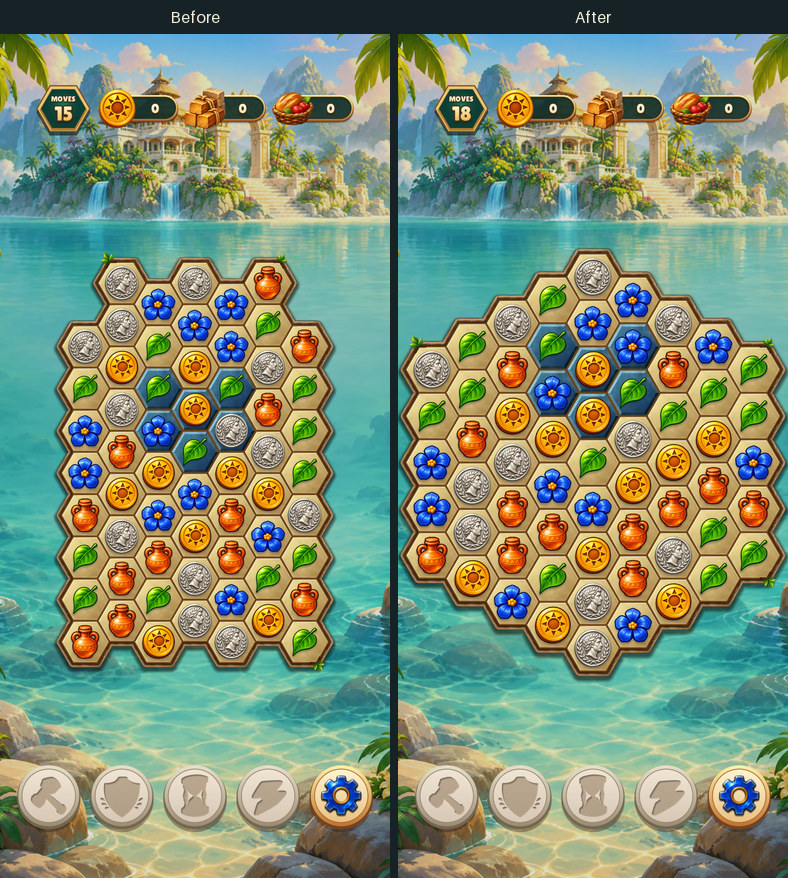
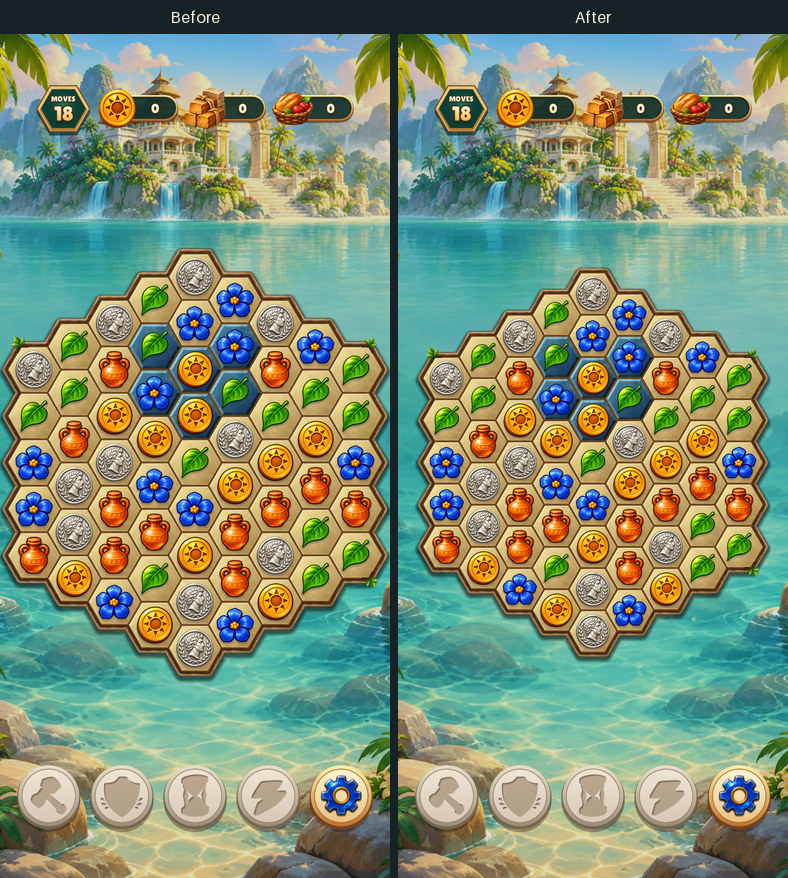
Use standard tile size for the nine-column Landing

diff --git a/games/relic-rush/docs/board-progression.md b/games/relic-rush/docs/board-progression.md
@@ -24,8 +24,8 @@ redeals if any exchange clears all the plaques. Refill damping begins on the sec
 
 Each blue tablet sits on two axes with space for four pieces. A gate must have a
 four-piece line on its fed side so the player can open it before filling the
-chamber below. The Landing is a 61-cell hex that uses all nine columns and
-fits close to both edges of the phone. It starts with six blue plaques.
+chamber below. The Landing is a 61-cell hex that uses all nine columns at the
+standard tile size, with space at both sides. It starts with six blue plaques.
 Use stepped edges, deep cutouts or interior gaps to give each later expedition
 a recognizable silhouette at phone size. Temple Steps has deep cuts
 on opposite sides of its diagonal stairway, with seven tablets on the middle
@@ -60,7 +60,7 @@ scheduled restoration pieces, no tools and the live move limits. The bot won
 layouts and budgets. It won at least once on each board. Trying every legal
 first exchange on the first of those ten deals per board found zero one-move wins.
 
-Each comparison shows the previous layout on the left and the current one on the right.
+Each comparison shows the previous board on the left and the current one on the right.
 
 | Board | 480 × 900 | 390 × 844 |
 | --- | --- | --- |

diff --git a/games/relic-rush/README.md b/games/relic-rush/README.md
@@ -98,7 +98,7 @@ identifiers `com.corepunch.relicrush.stars` and `com.corepunch.relicrush.level_0
 shows sample rivals for captures; `--dialog leaderboard` and `--victory --dialog level-leaderboard`
 open the dialogs.
 
-Board 1, The Landing, is a full-width hex with six blue plaques. It uses Cradle of Rome's opening pool: sun coins and silver coins (Coins) plus a leaf, a flower and an amphora that only score. Food and Supplies pieces arrive with the restorations.
+Board 1, The Landing, is a nine-column hex with six blue plaques. It uses Cradle of Rome's opening pool: sun coins and silver coins (Coins) plus a leaf, a flower and an amphora that only score. Food and Supplies pieces arrive with the restorations.
 Boards 2–10 and 13 show a story piece in place of one matching colour.
 Every board spawns five kinds, so those boards use four regular kinds plus the story piece.
 [Story pieces and board captures](docs/screenshots/review/story-collection/README.md)

diff --git a/docs/MATCH3_ENGINE.md b/docs/MATCH3_ENGINE.md
@@ -89,10 +89,6 @@ games' `campaign.lua` files contain these data; their
 `rules.lua` modules only configure the engine, name kinds and handle the
 restoration economy. Matching and input do not live in either game.
 
-An optional `view_radius` sets the drawn cell radius in logical points. The
-layout fits the active field and uses the new radius for drawing, pointer
-input, entrance and refill clips. Boards without it use the game default.
-
 Optional stones and tablets extend these descriptors. Their exact schema, timing,
 artwork and board-design rationale are in [Match-3 elements](MATCH3_ELEMENTS.md).
 
